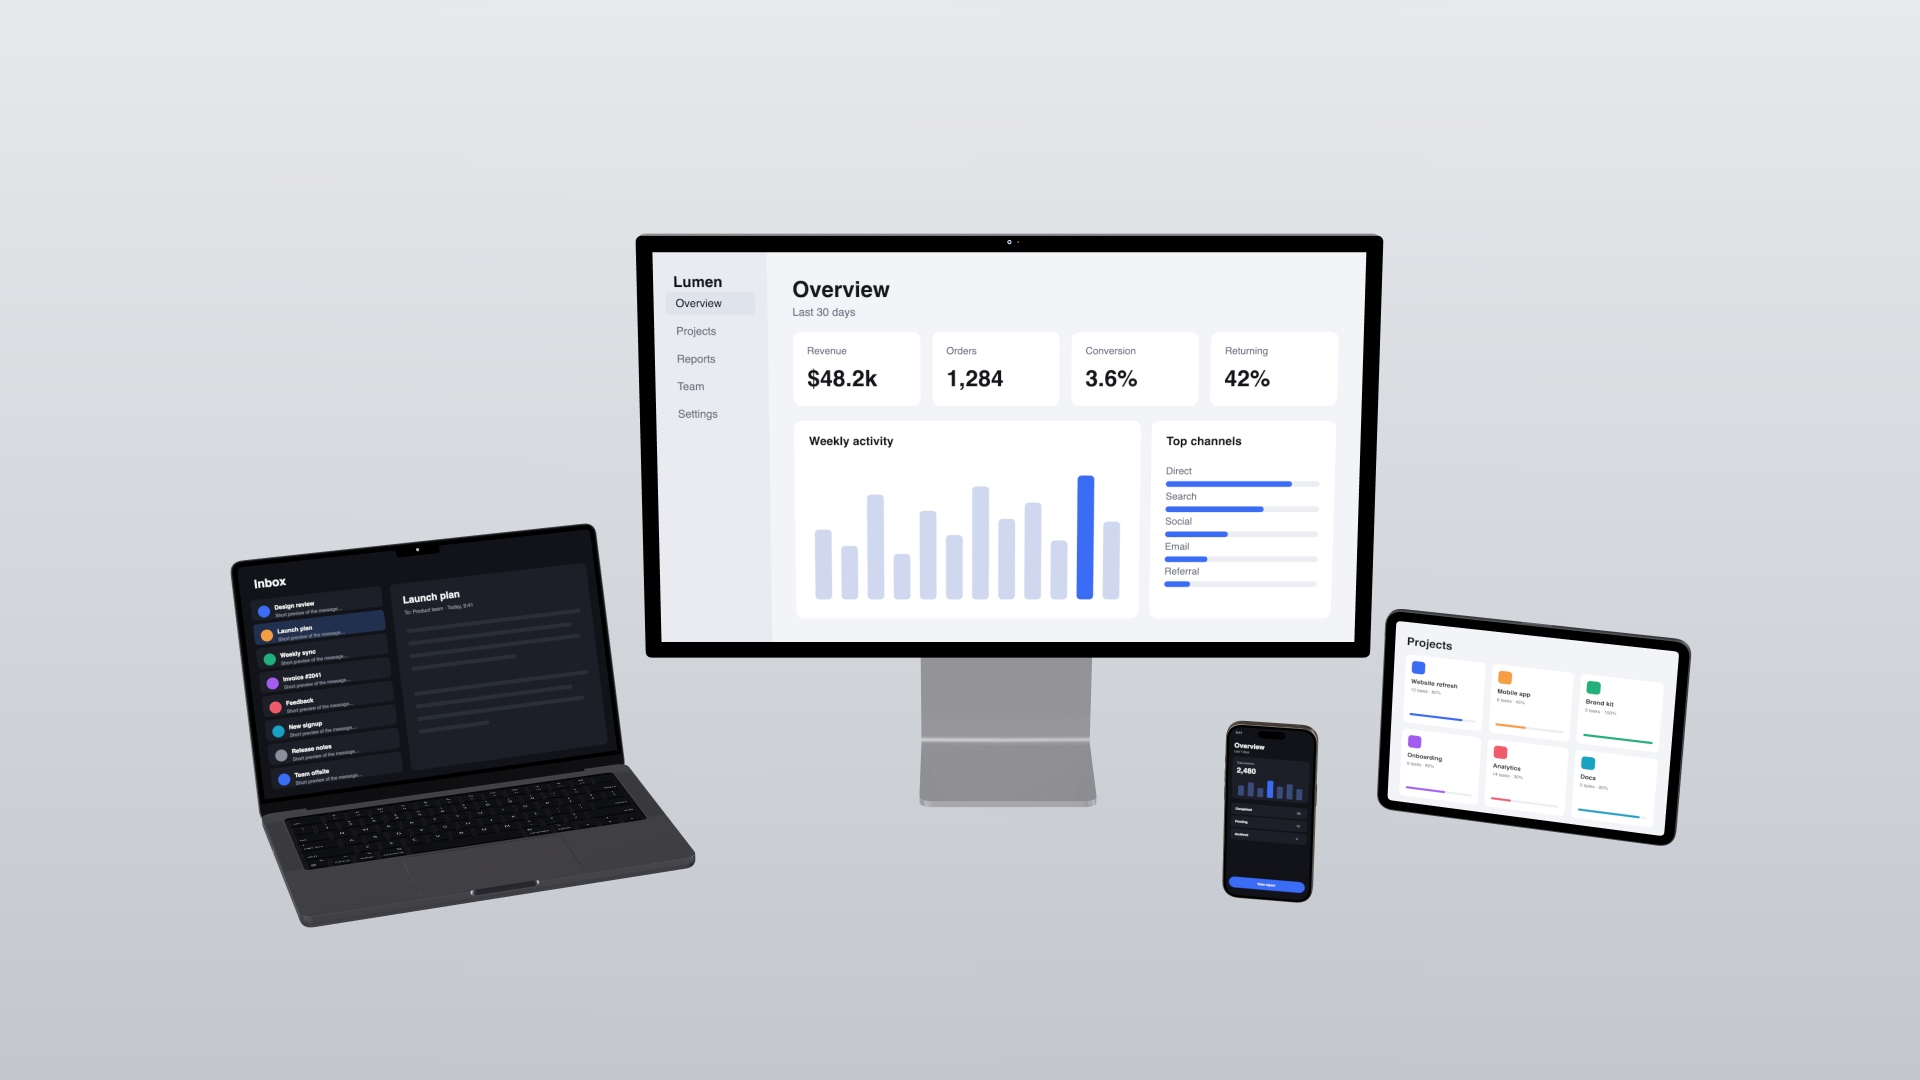
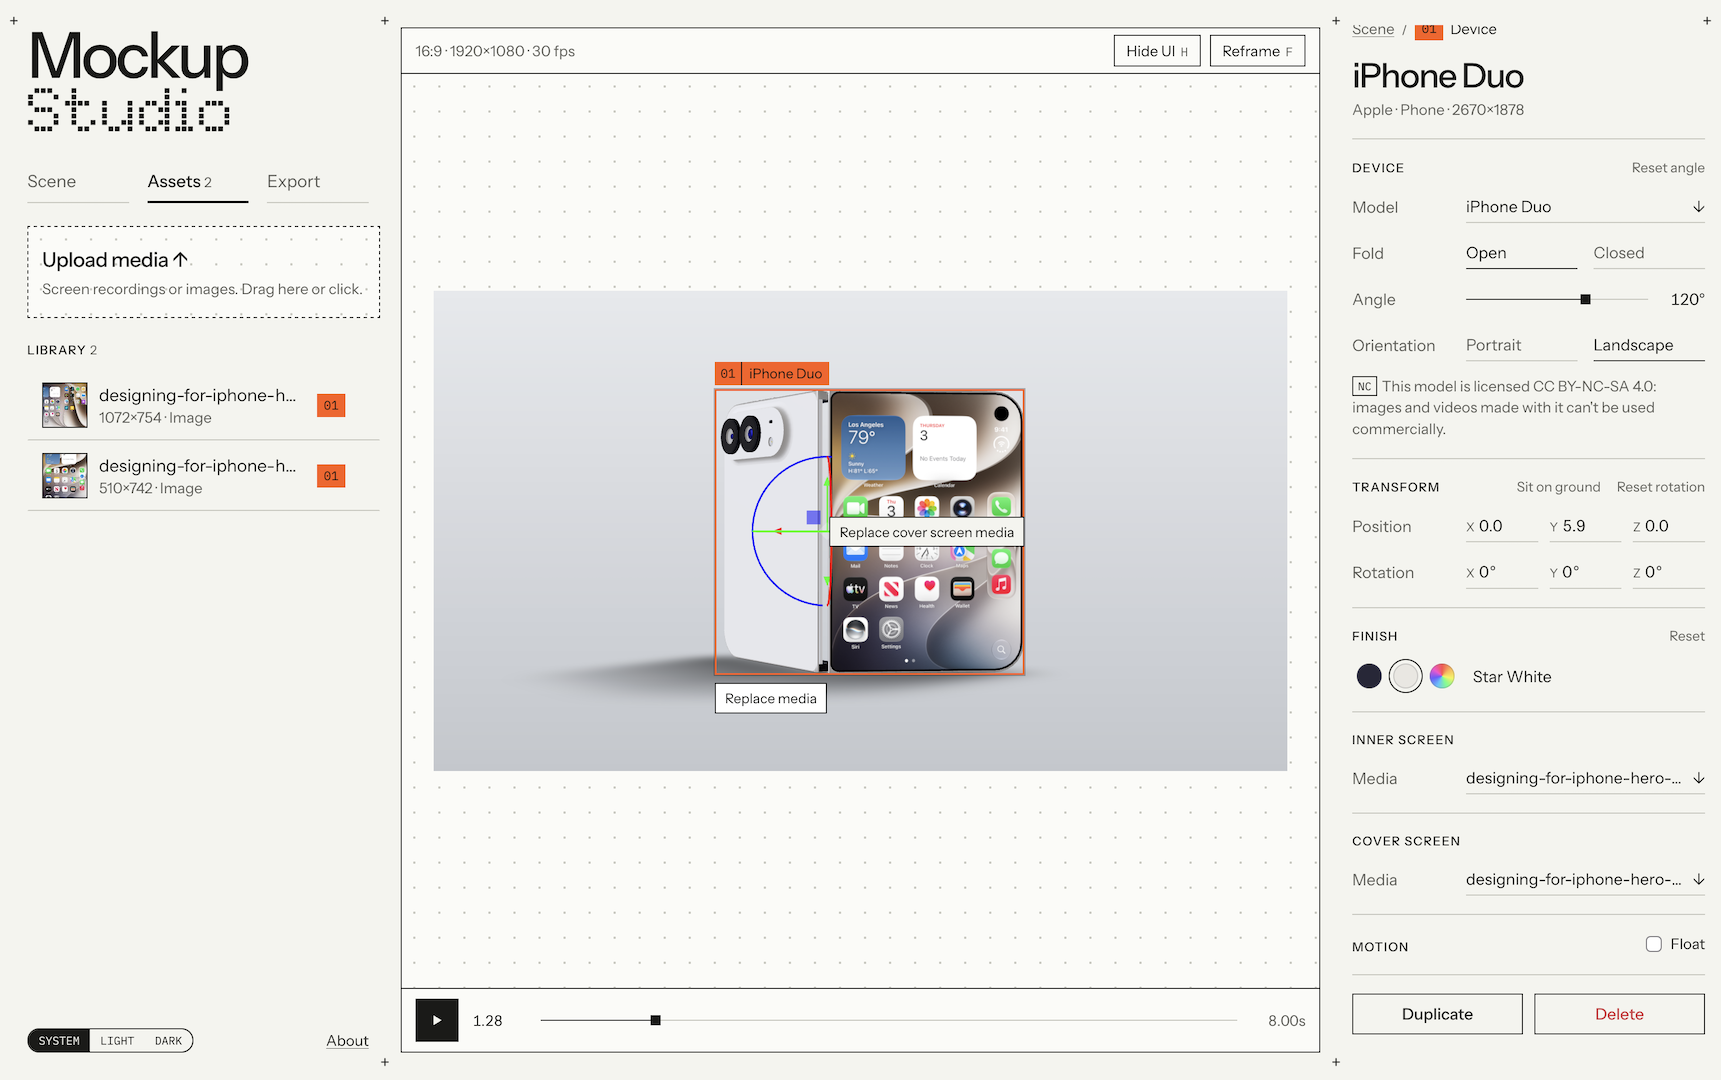
SEO update

diff --git a/index.html b/index.html
@@ -8,6 +8,21 @@
 <link rel="icon" href="/favicon.svg" type="image/svg+xml">
 <link rel="apple-touch-icon" href="/apple-touch-icon.png">
 <meta name="description" content="Compose 3D device mockups from your screen recordings and export them as video or images, entirely in your browser.">
+<link rel="canonical" href="https://mockupstudio.dev/">
+<link rel="manifest" href="/site.webmanifest">
+<meta name="theme-color" content="#F4F4EF" media="(prefers-color-scheme: light)">
+<meta name="theme-color" content="#141413" media="(prefers-color-scheme: dark)">
+<!-- link previews: Open Graph, then the large card for X -->
+<meta property="og:type" content="website">
+<meta property="og:site_name" content="Mockup Studio">
+<meta property="og:title" content="Mockup Studio">
+<meta property="og:description" content="3D device mockup videos from your screen recordings. Free, in your browser, nothing uploaded.">
+<meta property="og:url" content="https://mockupstudio.dev/">
+<meta property="og:image" content="https://mockupstudio.dev/og-image.png">
+<meta property="og:image:width" content="1200">
+<meta property="og:image:height" content="630">
+<meta property="og:image:alt" content="Mockup Studio: an open iPhone Duo being set up on the stage">
+<meta name="twitter:card" content="summary_large_image">
 <script>
   /* apply the saved theme before first paint, so there's no light/dark flash —
      except in Quick mode (phones, touch tablets; see wantsQuick in src/main.js),

diff --git a/README.md b/README.md
@@ -3,7 +3,7 @@
 Compose 3D device mockups from your screen recordings and export them as video
 or images, entirely in your browser.
 
-![A Studio Display, MacBook Pro, iPad and iPhone composed in Mockup Studio's Ecosystem template](docs/preview.png)
+![The Mockup Studio editor: an open iPhone Duo selected on the stage, with the asset library on the left and its device settings on the right](docs/preview.png)
 
 Built because most mockup tools either produce stills, watermark the output, or
 only allow **one** device per composition.
